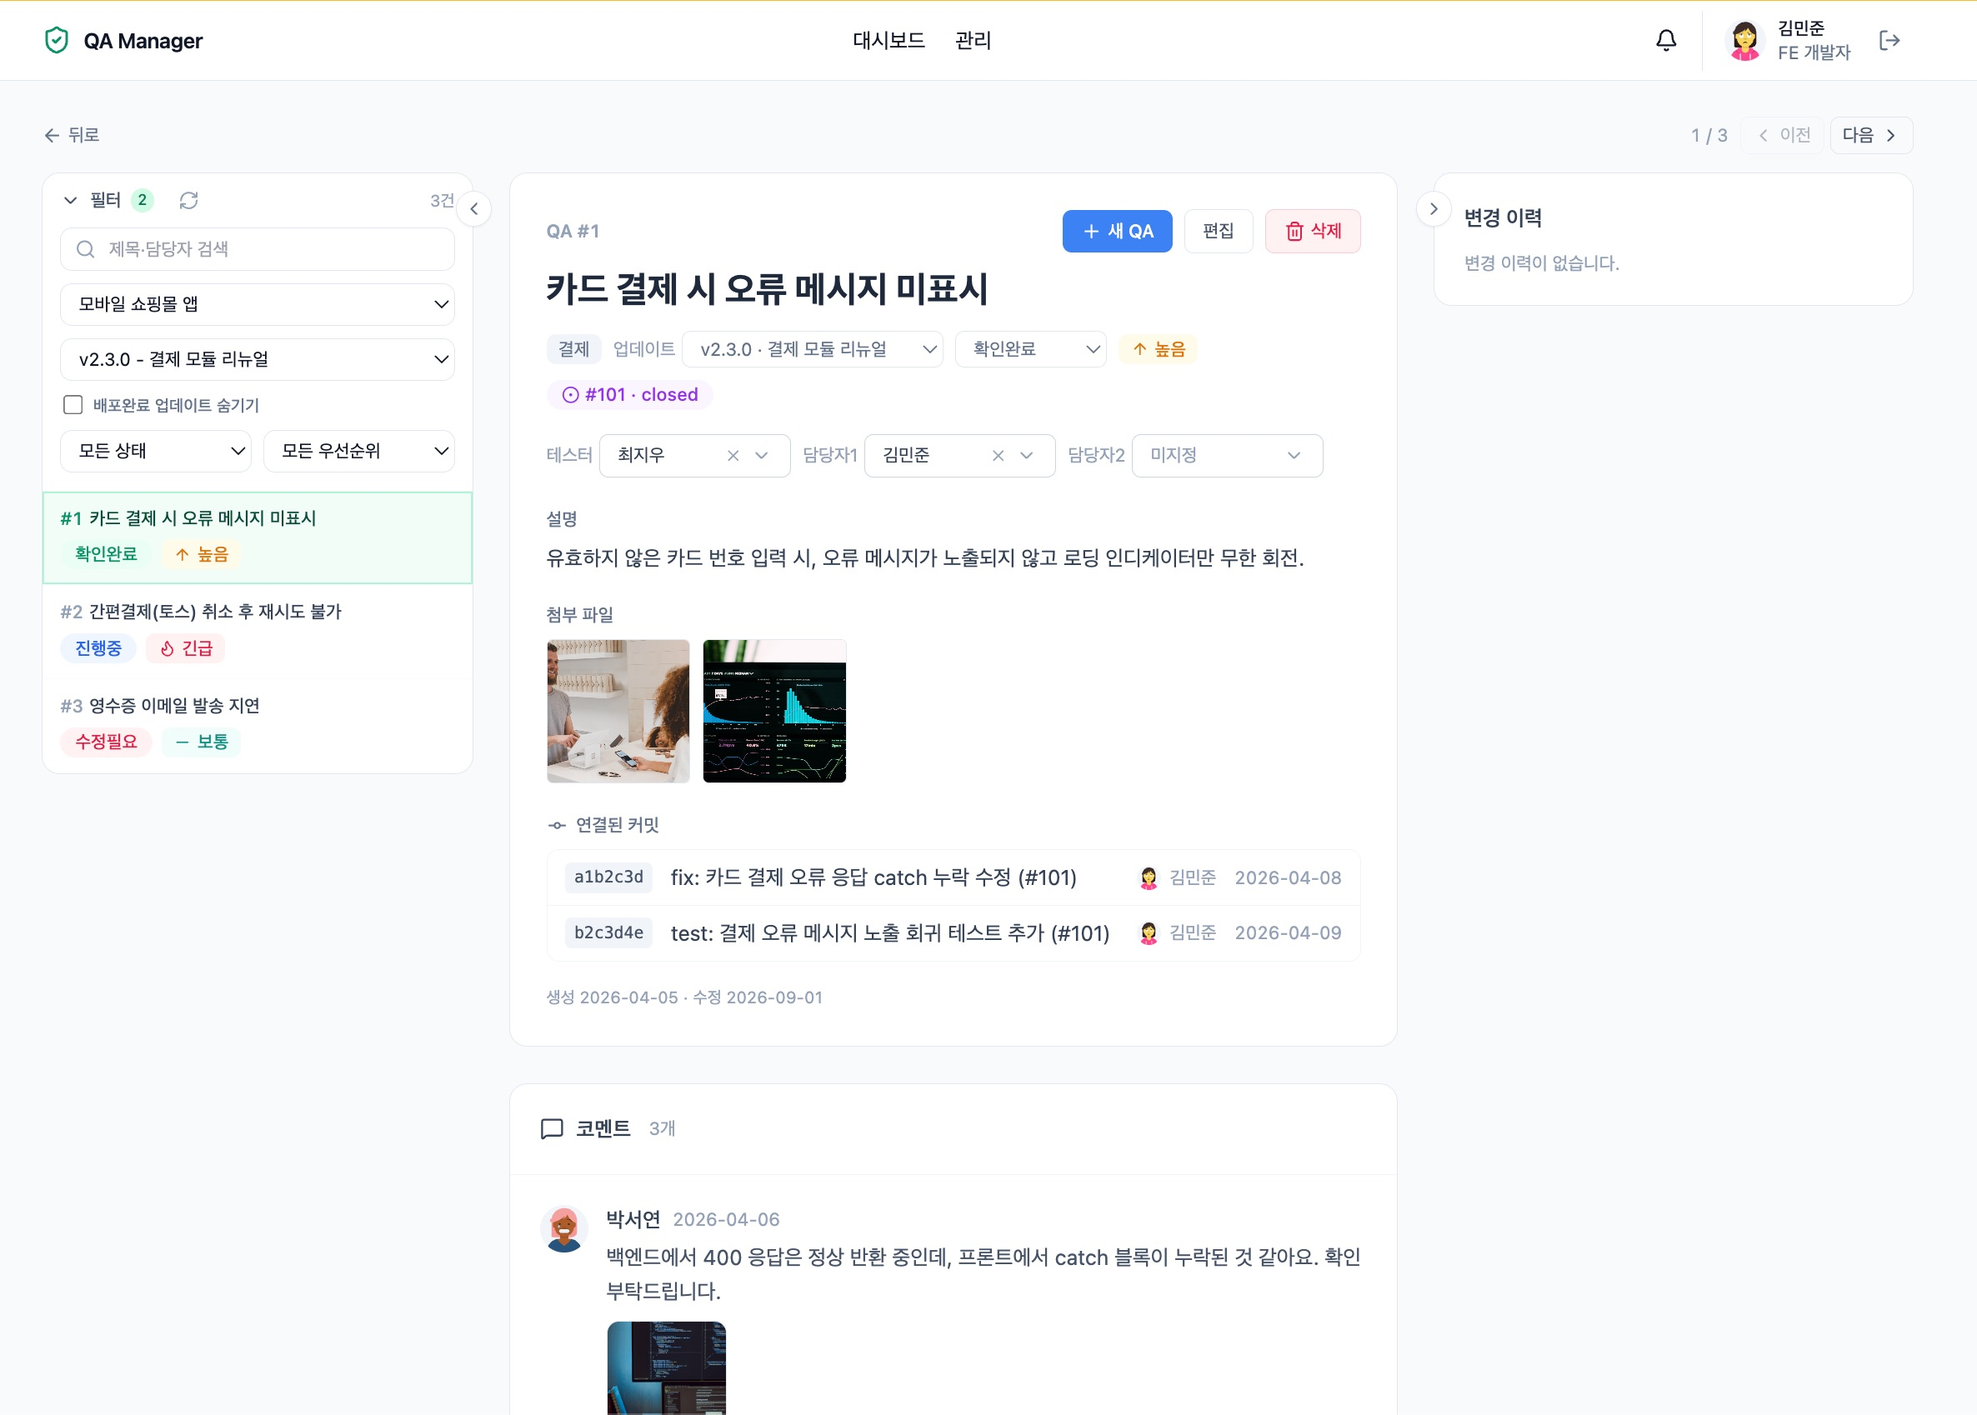
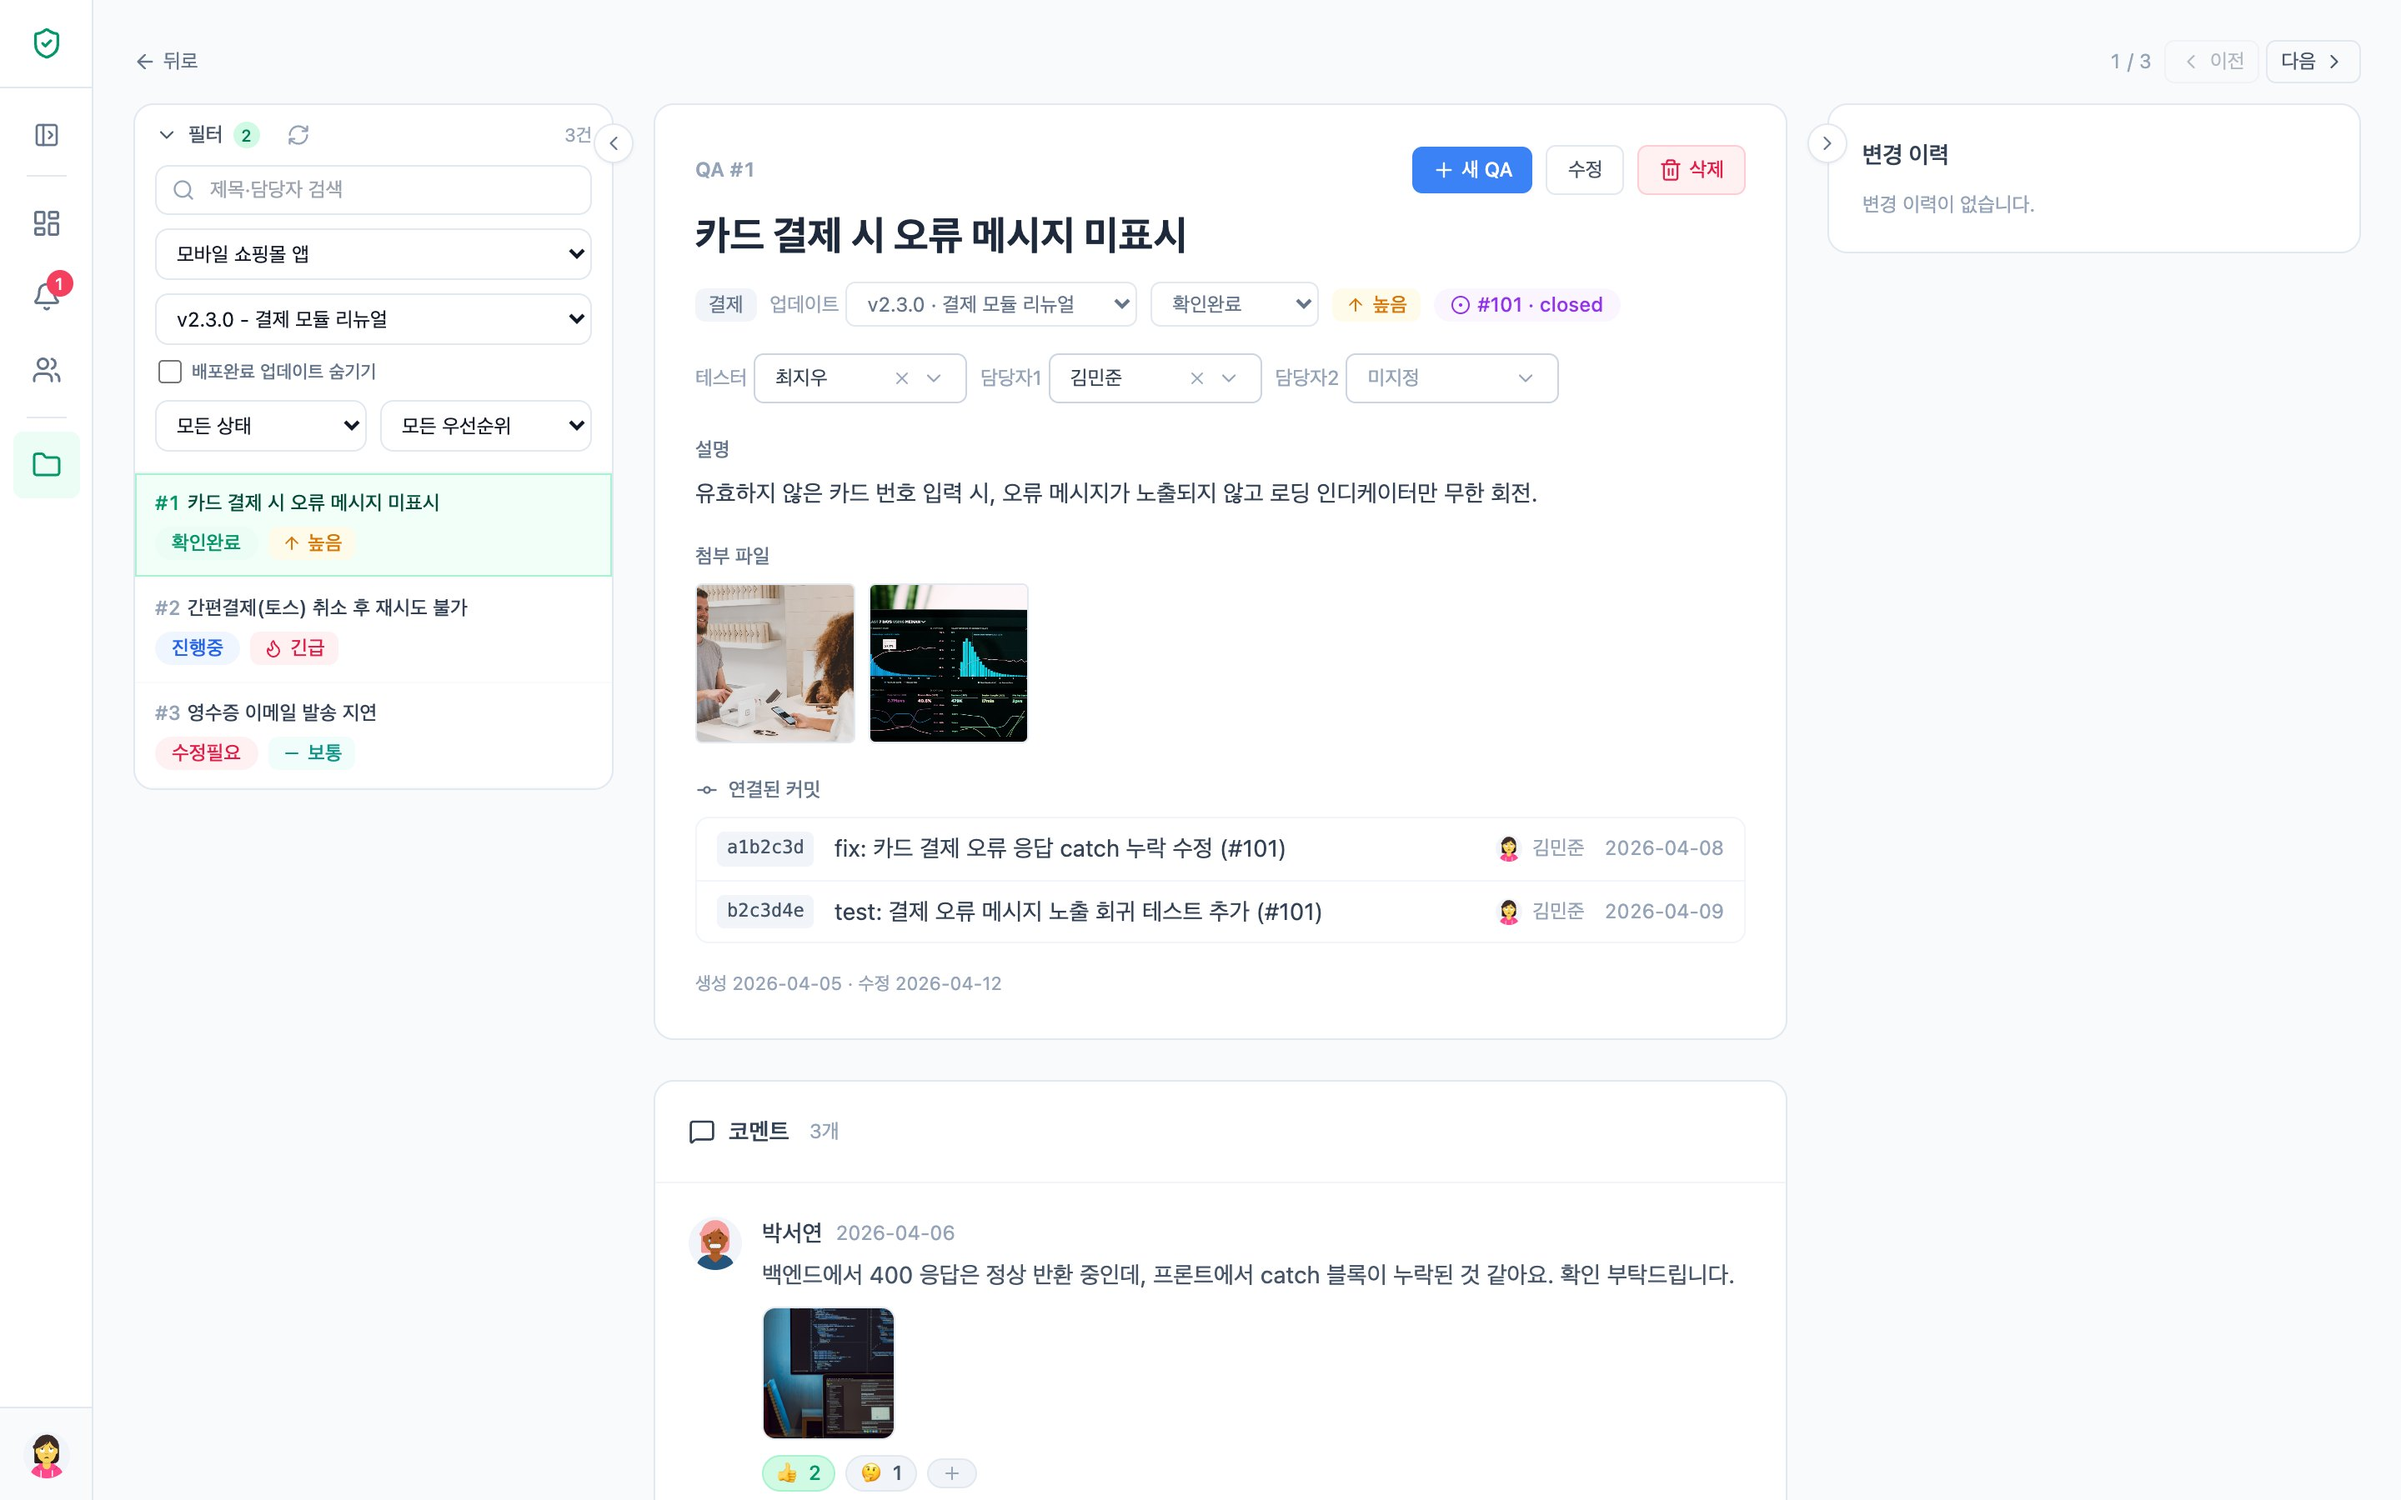
docs: 스크린샷을 새 UI(사이드바·요약 카드·알림 페이지·설정)로 교체, README 한/영 이미지 표 갱신
- dashboard / project-detail / qa-detail / qa-comments / github-commits / test-flow / test-run 다시 캡처 (1440×900 · 2x, 데모 모드)
- notification-center → notifications(알림 페이지), admin-settings → settings(전체 화면 설정)
- README 한/영에 프로젝트 상세·설정 스크린샷 행 추가, docs/images/README.md 캡처 목록 갱신

diff --git a/docs/images/README.md b/docs/images/README.md
@@ -1,29 +1,32 @@
 # 스크린샷 폴더
 
 README 와 docs 문서에 쓰이는 이미지를 이 폴더에 모읍니다.
-아래 파일명으로 저장하면 문서에 자동으로 표시됩니다. (PNG 권장, 밝은 테마 기준)
+아래 파일명으로 저장하면 문서에 자동으로 표시됩니다. (JPG, 밝은 테마, 1440×900 뷰포트 · 2x 기준)
 
-## 권장 캡처 목록
+## 캡처 목록
 
 | 파일명 | 화면 | 캡처 포인트 |
 |---|---|---|
-| `dashboard.png` | `/` 대시보드 | 프로젝트 카드 + 통계 8종 + QA 목록이 한 화면에 |
-| `project-detail.png` | `/project/:id` | 업데이트 아코디언 펼친 상태, 상태별 QA 배지 |
-| `qa-detail.png` | `/qa/:id` | 3분할 전체 — 좌 목록 사이드바 + 본문 + 우 이력 |
-| `qa-comments.png` | QA 상세 코멘트 영역 | `@멘션` 자동완성 드롭다운 또는 이모지 반응이 보이게 |
-| `notification-center.png` | 상단 알림센터 드롭다운 | 안읽음 배지 + 알림 목록 |
-| `github-commits.png` | QA 상세 | GitHub 이슈 배지 + 연결된 커밋 목록 |
-| `admin-settings.png` | `/admin` 설정 탭 | MS Teams 또는 GitHub 서브탭 |
-| `test-flow.jpg` | 테스트 케이스 탭 플로우 뷰 | 워크플로우 그래프(분기 라벨 포함) + 팔레트/툴바 |
+| `dashboard.jpg` | `/` 대시보드 | 사이드바(프로젝트 트리) + QA 현황 요약 카드 + QA 목록 전체 페이지 |
+| `project-detail.jpg` | `/project/:id` 개요 | 사이드바에서 프로젝트가 펼쳐진 상태, 헤더 + 요약 카드 + 업데이트 아코디언 |
+| `qa-detail.jpg` | `/qa/:id` | 3분할 — 접힌 사이드바 + 좌 목록 + 본문 + 우 이력 (뷰포트) |
+| `qa-comments.jpg` | QA 상세 코멘트 영역 | 답글 · `@멘션` · 이모지 반응이 보이는 코멘트 섹션만 |
+| `github-commits.jpg` | QA 상세 정보 카드 | GitHub 이슈 배지 + 연결된 커밋 목록 |
+| `notifications.jpg` | `/notifications` | 왼쪽 알림 목록(안읽음 표시) + 오른쪽 고른 알림의 QA 내용 |
+| `settings.jpg` | `/settings/notifications` | 전체 화면 설정 — 왼쪽 세 묶음 메뉴 + 알림 토글 |
+| `test-flow.jpg` | 테스트 플로우 에디터 | 워크플로우 그래프(분기 라벨 포함) + 팔레트/툴바 |
 | `test-run.jpg` | `/run/:id` 실행 화면 | 플랫폼 필터·배지 + 스텝 테이블 + 결과 버튼 |
-| `login-otp.png` | `/auth/login` | OTP 입력 단계 (마스킹된 이메일 안내 박스) |
-| `demo-login.png` | 데모 로그인 화면 | 데모 계정 클릭 목록 + 데모 배너 |
+| `login-otp.jpg` | `/auth/login` | OTP 입력 단계 (마스킹된 이메일 안내 박스) |
+| `demo-login.jpg` | 데모 로그인 화면 | 데모 계정 클릭 목록 + 데모 배너 |
 
 ## 사용 위치
 
-- 루트 `README.md` — dashboard / qa-detail / qa-comments / github-commits / notification-center / login-otp
+- 루트 `README.md` / `README.en.md` — dashboard / qa-detail / project-detail / settings / qa-comments / github-commits / test-flow / test-run / notifications / login-otp
 - `docs/FEATURES.md` — 위 전부
 - `docs/GITHUB_INTEGRATION.md` — github-commits
 - `docs/DEMO.md` — demo-login
 
-> 팁: 데모 사이트(https://qa-manager-demo.cygnus2.com)에서 캡처하면 실데이터 노출 걱정 없이 스크린샷을 만들 수 있습니다.
+## 다시 찍기
+
+데모 모드 개발 서버(`cd frontend && DEMO_BUILD=true npm run dev`)를 띄우고 헤드리스 Chrome 으로 캡처합니다.
+데모 배너와 Nuxt DevTools 는 캡처 전에 숨깁니다. 데모 사이트(https://qa-manager-demo.cygnus2.com)에서 직접 찍어도 됩니다.

diff --git a/README.en.md b/README.en.md
@@ -25,9 +25,13 @@ A static demo that runs without a backend (your changes are stored only in your 
   Recommended capture list: see docs/images/README.md (Korean)
 -->
 
-| Dashboard                              | QA detail (three-pane view)           |
+| Dashboard (sidebar + summary card)      | QA detail (three-pane view · sidebar auto-collapses) |
 |----------------------------------------|---------------------------------------|
 | ![Dashboard](docs/images/dashboard.jpg) | ![QA detail](docs/images/qa-detail.jpg) |
+
+| Project detail (sidebar tree · QA per update)  | Settings (Discord-style full screen)     |
+|------------------------------------------------|------------------------------------------|
+| ![Project detail](docs/images/project-detail.jpg) | ![Settings](docs/images/settings.jpg) |
 
 | Comments · Mentions · Emoji reactions   | GitHub issue & commit tracking                 |
 |-----------------------------------------|------------------------------------------------|
@@ -37,9 +41,9 @@ A static demo that runs without a backend (your changes are stored only in your 
 |--------------------------------------------|----------------------------------------|
 | ![Flow editor](docs/images/test-flow.jpg)  | ![Test run](docs/images/test-run.jpg)  |
 
-| Real-time notification center                     | Email OTP two-step login                  |
+| Notifications page (list │ QA content)            | Email OTP two-step login                  |
 |---------------------------------------------------|-------------------------------------------|
-| ![Notification center](docs/images/notification-center.jpg) | ![OTP login](docs/images/login-otp.jpg) |
+| ![Notifications](docs/images/notifications.jpg)   | ![OTP login](docs/images/login-otp.jpg) |
 
 ---
 

diff --git a/README.md b/README.md
@@ -25,9 +25,13 @@
   권장 캡처 목록: docs/images/README.md 참고
 -->
 
-| 대시보드                             | QA 상세 (3분할 뷰)                    |
+| 대시보드 (사이드바 + 요약 카드)         | QA 상세 (3분할 뷰 · 사이드바 자동 접힘)  |
 |--------------------------------------|---------------------------------------|
 | ![대시보드](docs/images/dashboard.jpg) | ![QA 상세](docs/images/qa-detail.jpg) |
+
+| 프로젝트 상세 (사이드바 트리 · 업데이트별 QA) | 설정 (Discord 식 전체 화면)              |
+|-----------------------------------------------|------------------------------------------|
+| ![프로젝트 상세](docs/images/project-detail.jpg) | ![설정](docs/images/settings.jpg)      |
 
 | 코멘트 · 멘션 · 이모지 반응            | GitHub 이슈 · 커밋 추적                        |
 |----------------------------------------|------------------------------------------------|
@@ -37,9 +41,9 @@
 |---------------------------------------------|----------------------------------------|
 | ![플로우 에디터](docs/images/test-flow.jpg) | ![테스트 런](docs/images/test-run.jpg) |
 
-| 실시간 알림센터                                  | 이메일 OTP 2단계 로그인                  |
+| 알림 페이지 (목록 │ QA 내용)                     | 이메일 OTP 2단계 로그인                  |
 |--------------------------------------------------|------------------------------------------|
-| ![알림센터](docs/images/notification-center.jpg) | ![OTP 로그인](docs/images/login-otp.jpg) |
+| ![알림 페이지](docs/images/notifications.jpg)    | ![OTP 로그인](docs/images/login-otp.jpg) |
 
 ---
 

diff --git a/docs/FEATURES.md b/docs/FEATURES.md
@@ -121,7 +121,7 @@ QA Manager 의 모든 기능을 화면 단위로 정리한 문서입니다.
 
 ## 8. 알림
 
-![알림센터](images/notification-center.jpg)
+![알림 페이지](images/notifications.jpg)
 
 ### 인앱 실시간 알림 (SSE)
 
@@ -182,7 +182,7 @@ QA Manager 의 모든 기능을 화면 단위로 정리한 문서입니다.
 
 ## 11. 설정 · 관리자 페이지
 
-![관리자 설정](images/admin-settings.jpg)
+![설정](images/settings.jpg)
 
 ### 설정 (`/settings/*`)
 
